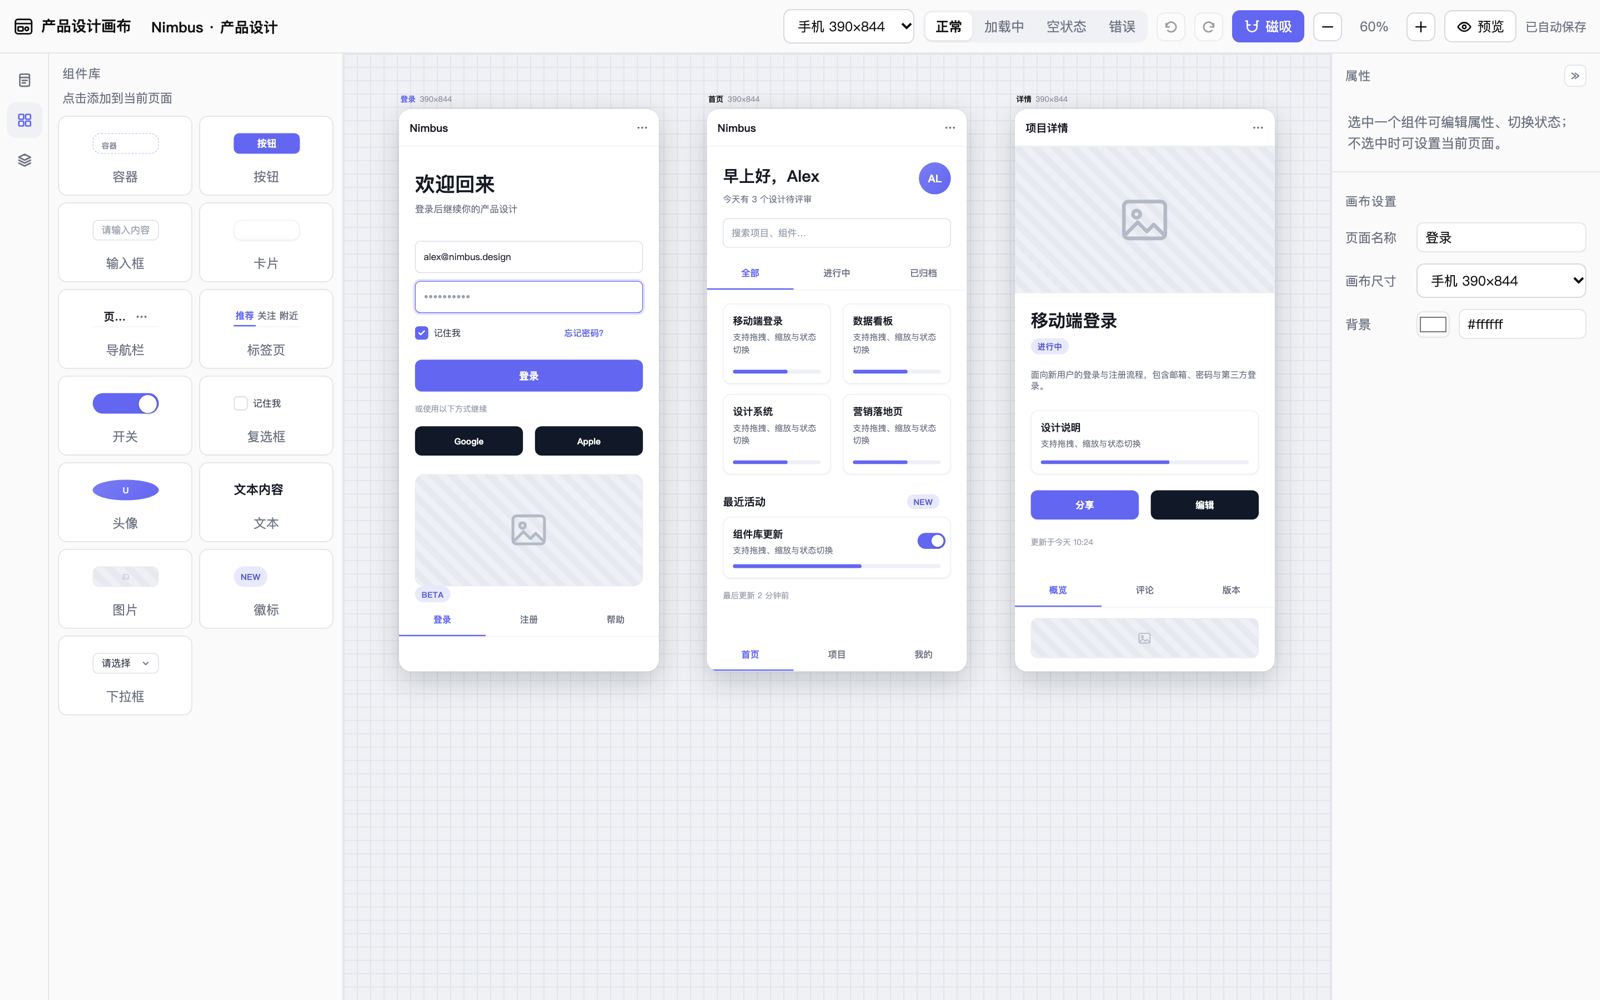
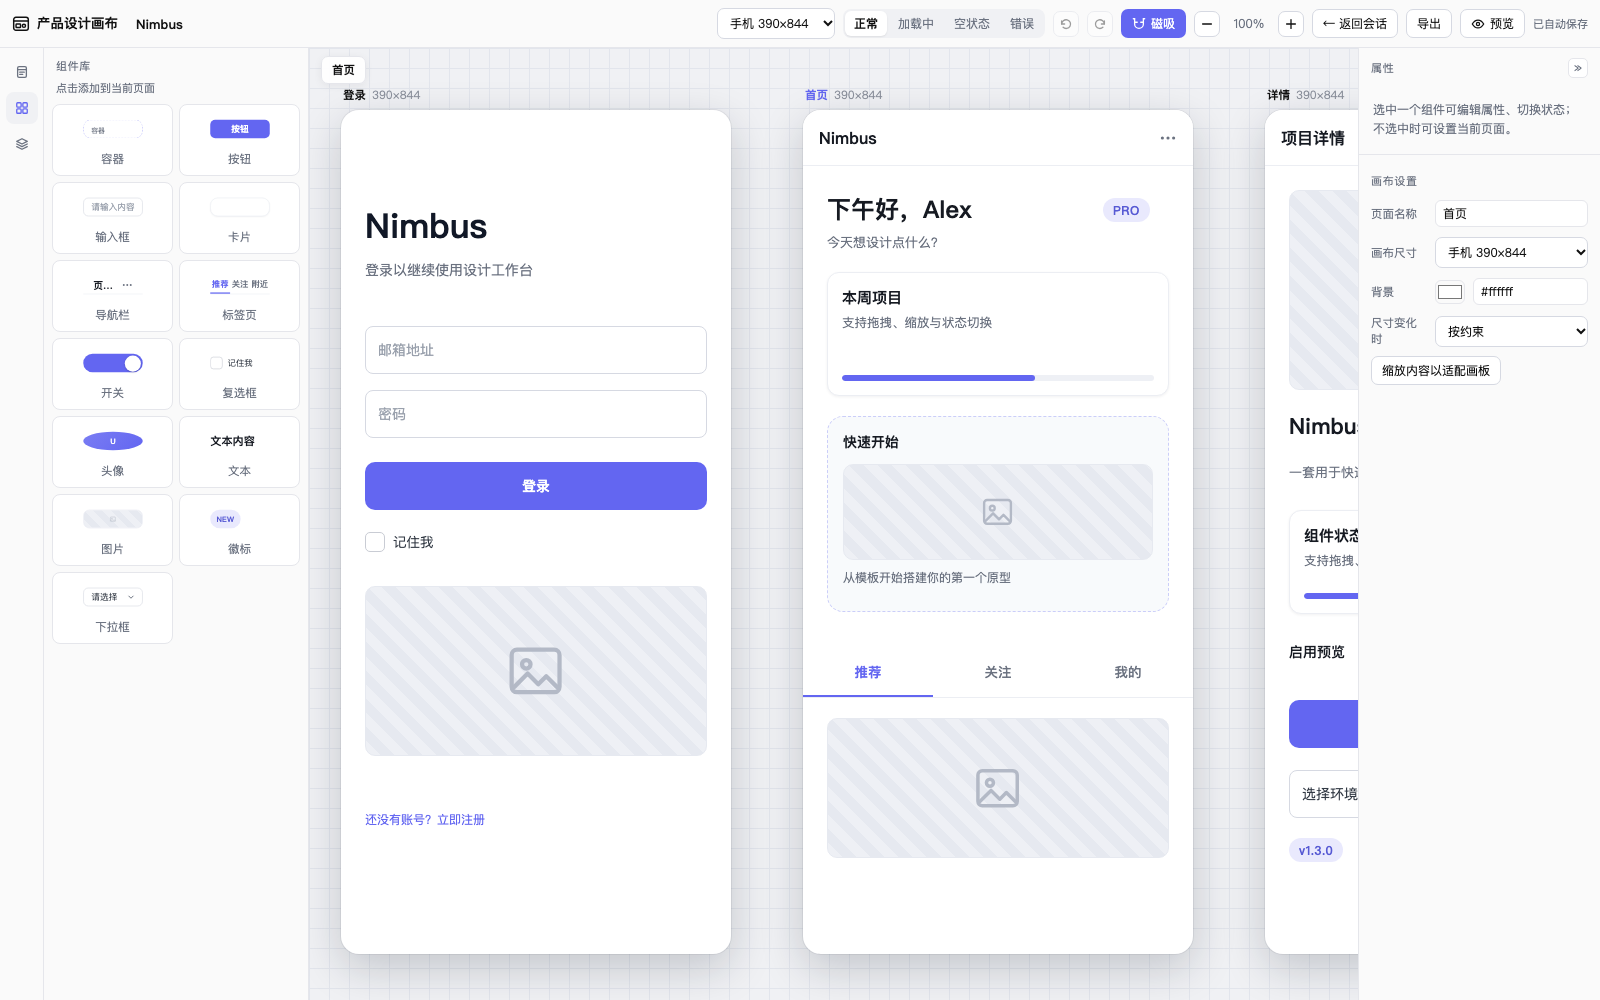
chore(release): v1.3.0
- 版本升到 1.3.0，CHANGELOG 收口（文档 v3、编辑手感、原型交互、
  约束 + Auto Layout、三种导出、会话标签页、工程重构）
- README 重新截图：编辑器 / 组件库 / 导出菜单 / 预览，基于真实 client.js
  渲染示例稿「Nimbus」
- 新增 scripts/screenshots.mjs（pnpm run screenshots）与 npm script
- 截图脚本走 headless Chrome + file://，不依赖网络与外部服务

diff --git a/CHANGELOG.md b/CHANGELOG.md
@@ -6,6 +6,10 @@
 
 ## [Unreleased]
 
+## [1.3.0] - 2026-11-05
+
+首个「会话标签页」版本。文档格式升到 v3，旧稿不再读取；同时补齐编辑手感、原型交互、约束 / Auto Layout 与三种导出。
+
 ### Added
 - **产品设计改为会话视图标签**：注册 `conversation.view`（id `dsh-product-design`，order 20），与 Chat / Trajectory 并列在会话顶部；移除 `sidebar.panellist` 入口，不再出现「选中会话→点侧边栏→跳走」的割裂感。视图内提供「全屏」进入独立画布，全屏提供「返回会话」。
 - **导出 PNG**：当前页按 1× / 2× 光栅化，使用模型渲染 → SVG `foreignObject` → canvas，无第三方依赖。

diff --git a/README.md b/README.md
@@ -53,6 +53,10 @@ dsh plugin --profile desktop remove dsh-product-design
 
 ![组件库](docs/screenshots/editor-components.png)
 
+### 导出：PNG / 单文件 HTML / React + Tailwind
+
+![导出](docs/screenshots/editor-export.png)
+
 ### 纯净预览：隐藏编辑器 UI，只保留产品画板
 
 ![预览模式](docs/screenshots/preview.png)
